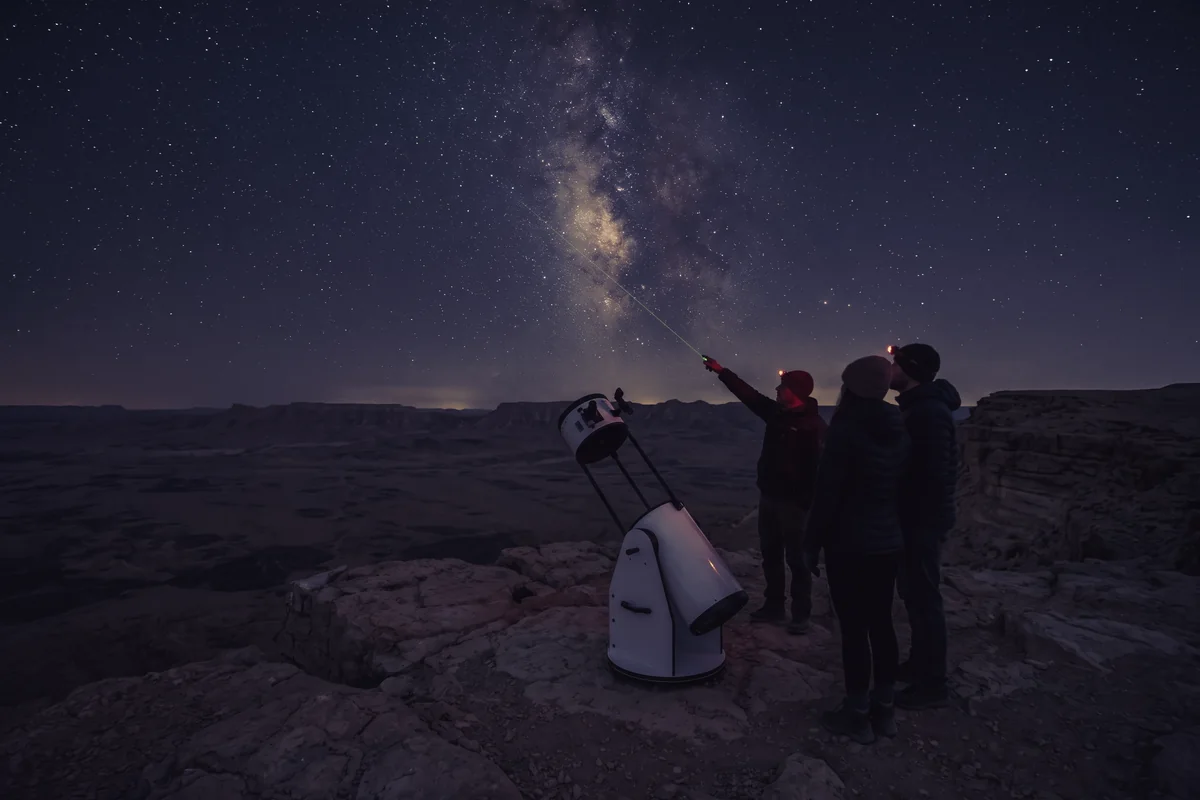
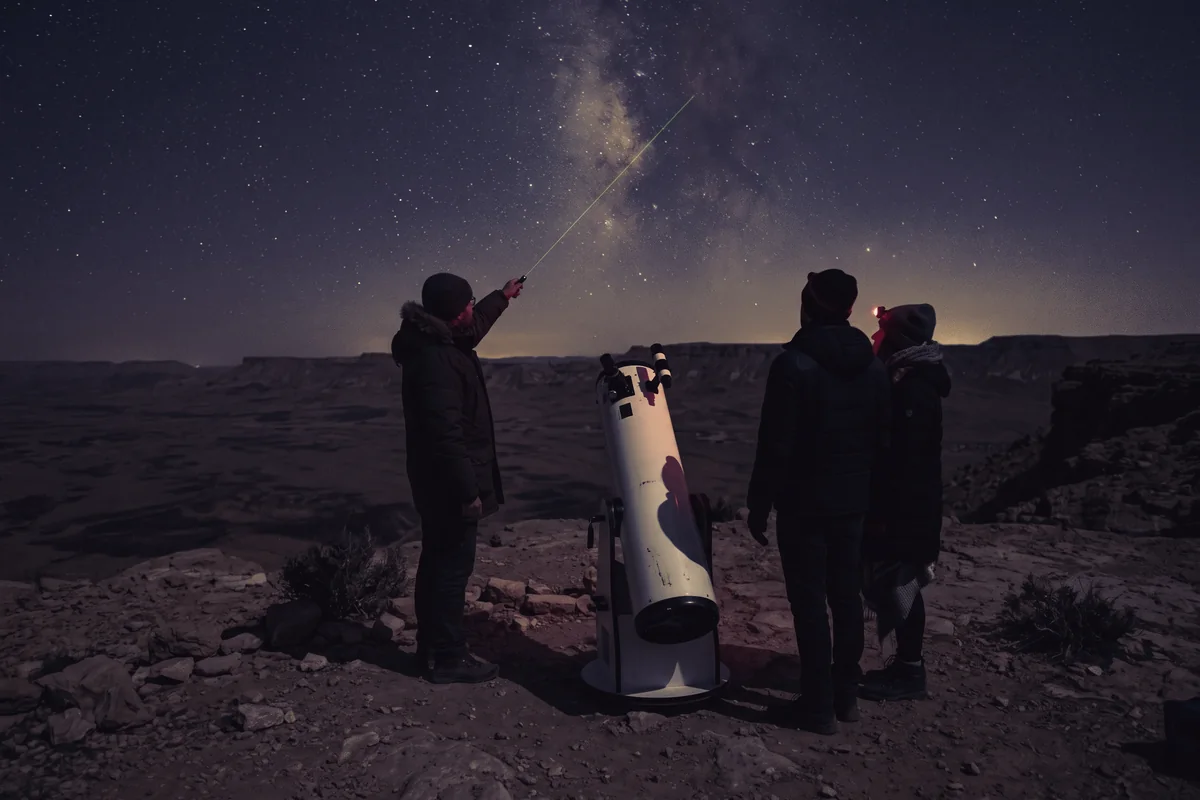
Experiences: a more natural astronomer photo; bump the photo version
Claude-Session: https://claude.ai/code/session_019tXmwdmGgNa3NtASudzmnm

diff --git a/src/data/images.ts b/src/data/images.ts
@@ -43,7 +43,7 @@ export const photos = {
   r7City: { id: 'gen-r7-city', alt: 'אותו נוף ואותם שמיים תחת זוהר כתום של עיר, רק כוכבים בודדים נראים', caption: 'אותם שמיים עם אור של עיר' },
   // The experiences, each showing the activity itself
   xpDinner: { id: 'gen-xp-dinner', alt: 'שולחן נמוך ערוך על מרפסת אבן מעל המכתש, כריות ישיבה, פנסים, נרות ומדורה בשעה כחולה', caption: 'ארוחת ערב במדבר', focus: '50% 62%' },
-  xpAstronomer: { id: 'gen-xp-astronomer', alt: 'מדריך מצביע בלייזר ירוק על כוכב, לידו טלסקופ גדול וזוג שמביט לשמיים', caption: 'תצפית מודרכת', focus: '60% 55%' },
+  xpAstronomer: { id: 'gen-xp-astronomer', alt: 'מדריך מצביע בלייזר ירוק אל שביל החלב, לידו טלסקופ גדול וזוג שמביט לשמיים על שפת המכתש', caption: 'תצפית מודרכת', focus: '50% 55%' },
   xpPhoto: { id: 'gen-xp-photo', alt: 'מצלמה על חצובה מול שביל החלב, וצלם כורע לידה עם פנס ראש אדום', caption: 'סדנת צילום כוכבים', focus: '62% 55%' },
   xpJeep: { id: 'gen-xp-jeep', alt: 'זוג עטוף בשמיכות ליד ג׳יפ פתוח על שפת המכתש, רגע לפני הזריחה', caption: 'ג׳יפ לזריחה', focus: '55% 60%' },
   ibex: { id: '1604080566273-928a568303fc', alt: 'יעל על סלע בשפת המכתש', caption: 'יעל על השפה' },
@@ -58,7 +58,7 @@ const widths = [480, 800, 1200, 1800] as const;
 export function src(p: Photo, w = 1200, raw = false) {
   const fit = widths.find((x) => x >= w) ?? 1800;
   // gen-* files were regenerated under the same names: the query busts browser and CDN caches
-  const v = p.id.startsWith('gen-') ? '?v=3' : '';
+  const v = p.id.startsWith('gen-') ? '?v=4' : '';
   return `/photos/${p.id}-${fit}${raw ? '-raw' : ''}.webp${v}`;
 }
 
